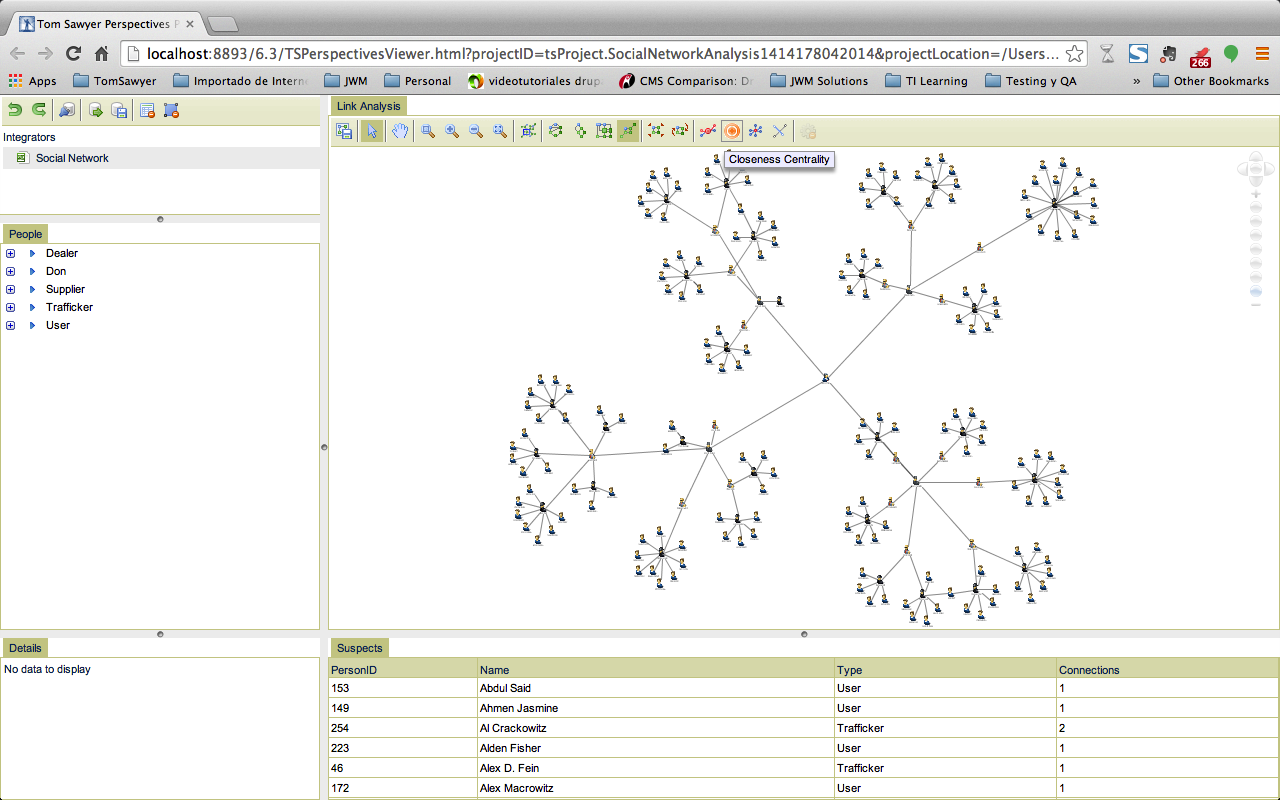
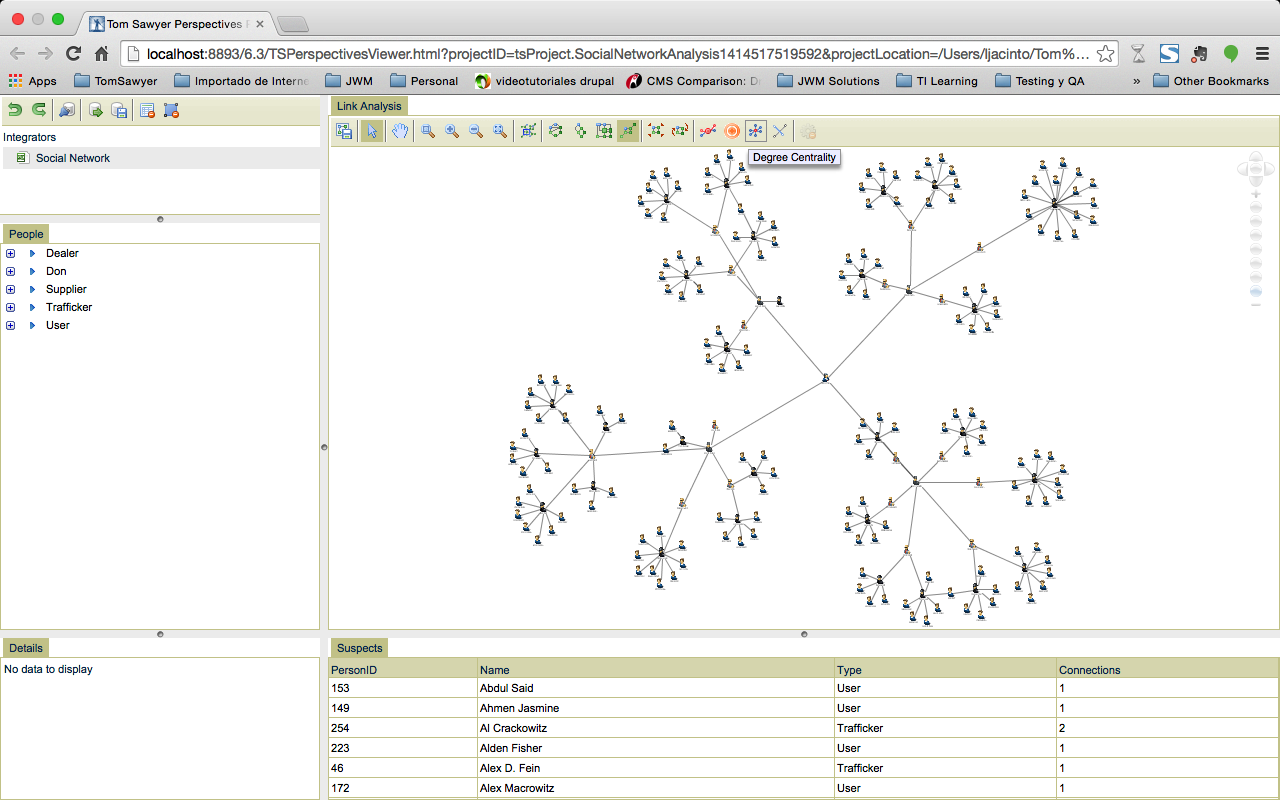
Troubles on Yosemite

diff --git a/src/test/java/TSSocialNetworkDesktopPreviewTest.java b/src/test/java/TSSocialNetworkDesktopPreviewTest.java
@@ -12,14 +12,16 @@ public class TSSocialNetworkDesktopPreviewTest
 	@BeforeClass
 	public static void setUp() throws Exception
 	{
-		className = TSSocialNetworkImageMapPreviewTest.class.getName();
+		className = TSSocialNetworkDesktopPreviewTest.class.getName();
 		Settings.MoveMouseDelay = new Float(1.5);
 		environment =
 			new TSEnvironment("SocialNetworkAnalysis", TSEnvironment.DESKTOP_PREVIEW);
 		TSAutomationTester = new TSTester();
 		TSAutomationTester.LaunchTS();
-		TSAutomationTester.openProject(TSAutomationUtils.getProperty("SocialNetworkProyectPath_Win"));
+		TSAutomationTester.maximizeWindow();
+		TSAutomationTester.openProject("SocialNetworkProyectPath");
 		TSAutomationTester.launchDesktopPreview();
+		
 
 	}
 
@@ -110,7 +112,7 @@ public class TSSocialNetworkDesktopPreviewTest
 		boolean result =
 			TSTestCases.isOverviewPresent(TSAutomationTester,
 				environment.projectImagesPath + File.separator + "overviewExpected.png",
-				new Float(0.95));
+				new Float(0.80));
 		if (!result)
 		{
 			TSAutomationUtils.getScreenShot(TSAutomationTester, className
@@ -466,9 +468,9 @@ public class TSSocialNetworkDesktopPreviewTest
 	{
 		System.out.println("******testOnMouseHoverBetweenesCentrality******");
 		String imageToolBar =
-			environment.toolBarImagesPath + File.separator + "BetweenesCentralityToolBarDesktop.png";
+			environment.toolBarImagesPath + File.separator + "BetweennessCentralityToolBarDesktop.png";
 		String imageExpected =
-			environment.toolTipsImagePath + File.separator + "BetweenesCentrality.png";
+			environment.toolTipsImagePath + File.separator + "BetweennessCentrality.png";
 		boolean result =
 			TSTestCases.isToolTipPresentDesktop(TSAutomationTester,
 				imageToolBar,
@@ -488,9 +490,9 @@ public class TSSocialNetworkDesktopPreviewTest
 	{
 		System.out.println("******testOnMouseHoverClosenessCentralityLayout******");
 		String imageToolBar =
-			environment.toolBarImagesPath + File.separator + "ClosenesCentralityToolBarDesktop.png";
+			environment.toolBarImagesPath + File.separator + "ClosenessCentralityToolBarDesktop.png";
 		String imageExpected =
-			environment.toolTipsImagePath + File.separator + "ClosenesCentrality.png";
+			environment.toolTipsImagePath + File.separator + "ClosenessCentrality.png";
 		boolean result =
 			TSTestCases.isToolTipPresentDesktop(TSAutomationTester,
 				imageToolBar,
@@ -511,7 +513,7 @@ public class TSSocialNetworkDesktopPreviewTest
 	{
 		System.out.println("******testOnMouseHoverDegreeCentralityLayout******");
 		String imageToolBar =
-			environment.toolBarImagesPath + File.separator + "DegreeCentralityLayoutToolBarDesktop.png";
+			environment.toolBarImagesPath + File.separator + "DegreeCentralityToolBarDesktop.png";
 		String imageExpected =
 			environment.toolTipsImagePath + File.separator + "DegreeCentrality.png";
 		boolean result =
@@ -532,7 +534,7 @@ public class TSSocialNetworkDesktopPreviewTest
 	@Test
 	public void testOnMouseHoverEigenVectorCentralityLayout()
 	{
-		System.out.println("******testOnMouseHoverIncrementalLayout******");
+		System.out.println("******testOnMouseHoverEigenvectorCentralityLayout******");
 		String imageToolBar =
 			environment.toolBarImagesPath + File.separator + "EigenVectorCentralityToolBarDesktop.png";
 		String imageExpected =

diff --git a/src/main/java/TSTester.java b/src/main/java/TSTester.java
@@ -239,7 +239,7 @@ public class TSTester
 		try
 		{
 			automationTesterCurrentScreen.click(new Pattern(tsperspectivesToolBarImagesPath
-				+ File.separator + "WebPreview.png").similar(new Float(0.5)));
+				+ File.separator + "WebPreview.png").similar(new Float(0.7)));
 		}
 
 		catch (FindFailed ff)
@@ -247,7 +247,7 @@ public class TSTester
 			System.out.println(ff.getMessage());
 		}
 		System.out.println("Pause on launchWebPreview");
-		TSAutomationUtils.pauseScript(new Long(Long.valueOf(TSAutomationUtils.getProperty("TimeWaitLwebPreview"))));
+		TSAutomationUtils.pauseScript(new Long(Long.valueOf(TSAutomationUtils.getProperty("TimeWaitwebPreview"))));
 		System.out.println("Getting again screen");
 
 		try
@@ -292,7 +292,7 @@ public class TSTester
 			System.out.println(ff.getMessage());
 		}
 		System.out.println("Pause on launchCanvasPreview");
-		TSAutomationUtils.pauseScript(new Long(Long.valueOf(TSAutomationUtils.getProperty("TimeWaitLwebPreview"))));
+		TSAutomationUtils.pauseScript(new Long(Long.valueOf(TSAutomationUtils.getProperty("TimeWaitwebPreview"))));
 		System.out.println("Getting again screen");
 
 		try
@@ -368,12 +368,20 @@ public class TSTester
 
 	public Match isPresentElement(String patternStringPath, float similar, Long timeout)
 	{
+		File imageFile;
 		TSAutomationUtils.pauseScript(timeout);
 		System.out.println("Searching image for validation" + patternStringPath);
 		// Waiting for screen
-
+		imageFile = new File(patternStringPath);
+		if(imageFile.exists()){
+		
 		return automationTesterCurrentScreen.exists(new Pattern(patternStringPath).similar(similar));
-
+		}
+		else{
+			System.out.println("Could not load file :" + patternStringPath);
+			return null;
+		}
+		
 	}
 
 
@@ -502,7 +510,7 @@ public class TSTester
 					+ "TomSawyerPerspectives" + File.separator + "TSPerspectivesToolBar"
 					+ File.separator + "maximize.png";
 
-			Pattern maximizeElement = new Pattern(maximizeImage).similar(new Float(0.7));
+			Pattern maximizeElement = new Pattern(maximizeImage).similar(new Float(0.95));
 			if (automationTesterCurrentScreen.exists(maximizeElement) != null)
 				try
 				{
@@ -582,6 +590,19 @@ public class TSTester
 		else{
 			openProjectWindows(TSAutomationUtils.getProperty(proyectPath+"_Win"));
 		}
+	}
+	
+	public void zoomFit(){
+		String zoomFit=tspDesktopPreviewImagesPath + File.separator +"SelectToolBarDesktop";
+		try
+		{
+			automationTesterCurrentScreen.click(zoomFit);
+		}
+		catch (FindFailed ff)
+		{
+			System.out.println(ff.getMessage());
+		}
+		TSAutomationUtils.pauseScript(new Long(1500));
 	}
 
 }

diff --git a/src/test/java/TSSocialNetworkImageMapPreviewTest.java b/src/test/java/TSSocialNetworkImageMapPreviewTest.java
@@ -39,7 +39,9 @@ public class TSSocialNetworkImageMapPreviewTest
 			environment.projectImagesPath =
 				environment.projectImagesPath.concat(File.separator + "SecondaryScreen");
 			System.out.println(environment.projectImagesPath);
+			
 		}
+		System.out.println(TSAutomationTester.automationTesterCurrentScreen.getBounds());
 
 	}
 

diff --git a/src/main/java/TestSikuli.java b/src/main/java/TestSikuli.java
@@ -11,8 +11,8 @@ import org.sikuli.script.Screen;
 public class TestSikuli {
 	public static void main(String args[]){
 		Screen a = new Screen();
-
-		a.type(Key.UP, Key.WIN);
+		System.out.println(Screen.getBounds(0));
+		System.out.println(Screen.getBounds(1));
 		
 	
 	}

diff --git a/src/main/java/TSTestCases.java b/src/main/java/TSTestCases.java
@@ -200,5 +200,11 @@ public class TSTestCases
 		}
 		return result;
 	}
+	
+	
+	public static boolean circularLayout(){
+		
+		return true;
+	}
 
 }
